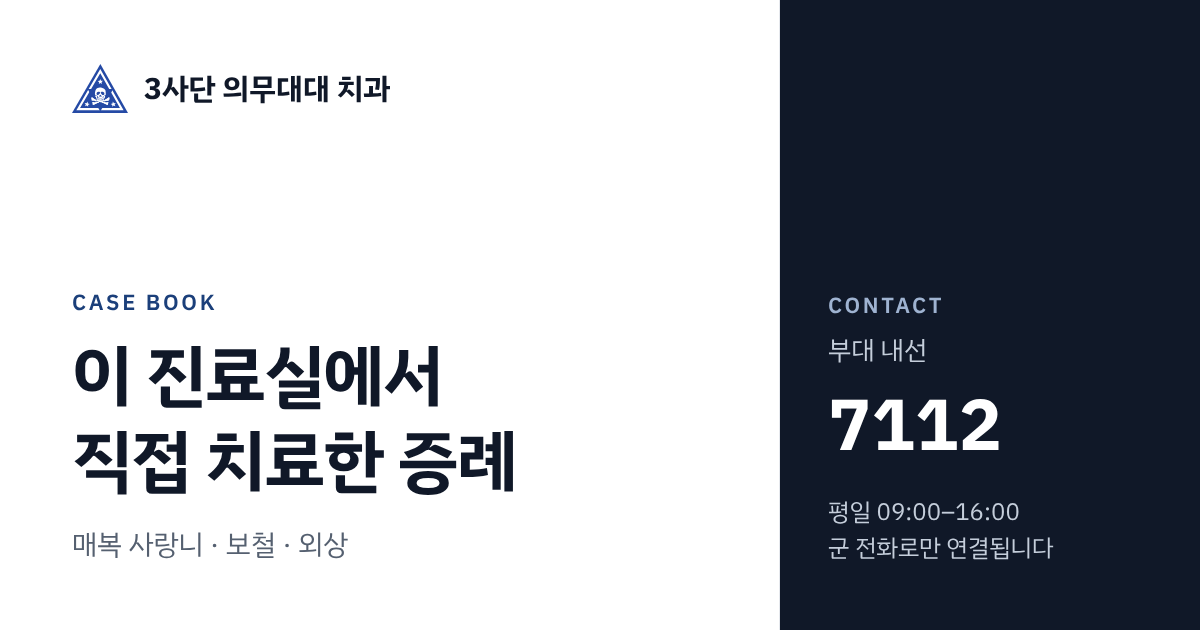
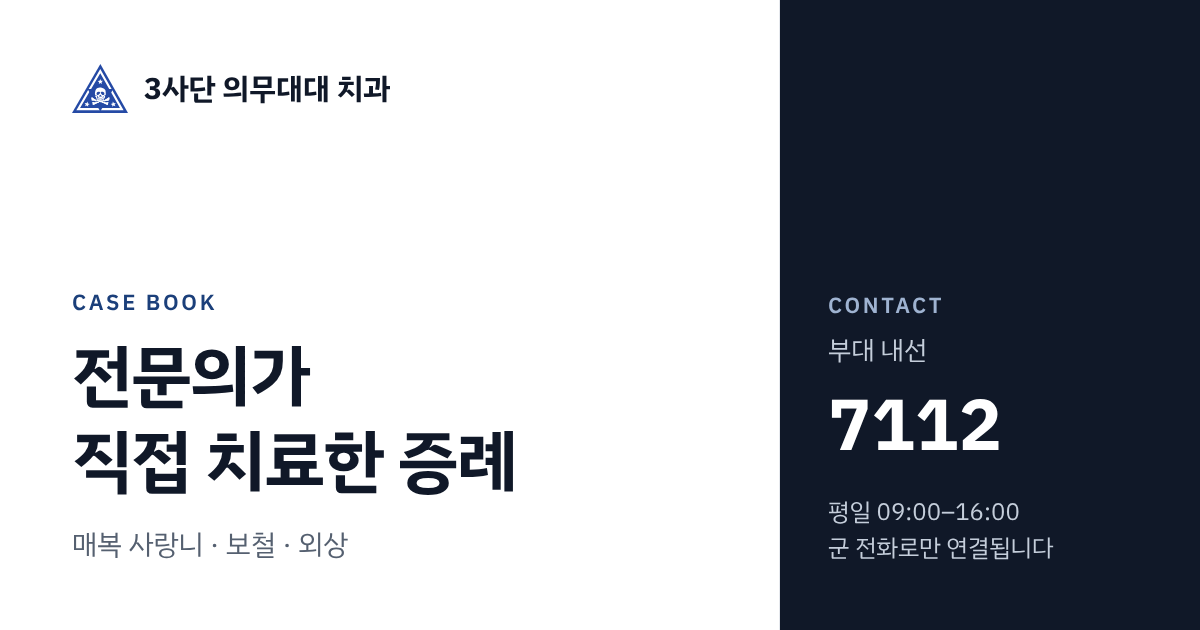
케이스북: 수련 기간에 치료한 증례임을 정확히 표기
- 제목 '전문의가 직접 치료한 증례', 소개·하단 고지·미리보기 정보와 그림 수정
- '이 진료실에서', '본원에서 근무한' 등 이곳에서 치료한 것처럼 읽히는 표현 삭제

Claude-Session: https://claude.ai/code/session_01R7kTzuw7UYxby8XWCzNtGf

Changed region(s): [[0.0617, 0.5429, 0.37, 0.6635]]

diff --git a/cases.html b/cases.html
@@ -11,13 +11,13 @@
 <link rel="icon" href="mark.svg" type="image/svg+xml">
 <link rel="stylesheet" href="style.css">
 
-<title>직접 치료한 증례 · 3사단 의무대대 치과</title>
-<meta name="description" content="3사단 의무대대 치과 전문의가 직접 치료한 매복 사랑니, 보철, 외상 증례. 인턴 1년·레지던트 3년 수련을 마친 구강악안면외과·치과보철과 전문의가 진료합니다.">
+<title>전문의가 직접 치료한 증례 · 3사단 의무대대 치과</title>
+<meta name="description" content="3사단 의무대대 치과에서 진료하는 구강악안면외과·치과보철과 전문의가 전문의 수련 기간에 직접 치료한 매복 사랑니, 보철, 외상 증례입니다.">
 <meta property="og:type" content="website">
 <meta property="og:site_name" content="3사단 의무대대 치과">
 <meta property="og:locale" content="ko_KR">
-<meta property="og:title" content="직접 치료한 증례 · 3사단 의무대대 치과">
-<meta property="og:description" content="부대 안 치과에서 전문의가 직접 치료한 매복 사랑니, 보철, 외상 증례입니다.">
+<meta property="og:title" content="전문의가 직접 치료한 증례 · 3사단 의무대대 치과">
+<meta property="og:description" content="지금 3사단 의무대대 치과에서 진료하는 전문의가 수련 기간에 직접 치료한 매복 사랑니, 보철, 외상 증례입니다.">
 <meta property="og:url" content="https://wonwoo-dent.github.io/dental_clinic/cases.html">
 <meta property="og:image" content="https://wonwoo-dent.github.io/dental_clinic/og-cases.png">
 <meta property="og:image:width" content="1200">
@@ -59,8 +59,8 @@
 <main class="page" id="main">
   <section class="intro" aria-labelledby="page-title">
     <p class="eb eb--accent">Case book</p>
-    <h1 id="page-title">이 진료실에서<br>직접 치료한 증례</h1>
-    <p class="lead">인턴 1년, 레지던트 3년의 수련을 마친 전문의가 진료합니다. 아래 사진은 본원에서 근무한 전문의가 직접 진료한 사진입니다.</p>
+    <h1 id="page-title">전문의가<br>직접 치료한 증례</h1>
+    <p class="lead">아래 사진은 지금 이곳에서 진료하는 전문의가 <b>전문의 수련 기간에 수련병원에서 직접 치료한</b> 증례입니다. 그때와 같은 의사가, 같은 기준으로 이 진료실에서 진료합니다.</p>
   </section>
 
   <section class="specialist" aria-labelledby="sp-title">
@@ -235,7 +235,7 @@
     <p>평일 09:00–16:00 · 행정반이나 사무실의 군 전화로만 연결됩니다. <a href="hours.html#call">전화할 때 말할 것</a></p>
   </section>
 
-  <p class="notice">증례 사진은 본원에서 근무한 전문의가 직접 진료한 사진이며, 환자 동의를 받아 게재합니다. 치료 결과는 개인마다 다를 수 있습니다.</p>
+  <p class="notice">증례 사진은 현재 본원에서 진료하는 전문의가 전문의 수련 기간에 수련병원에서 직접 치료한 사진이며, 환자 동의를 받아 게재합니다. 치료 결과는 개인마다 다를 수 있습니다.</p>
 </main>
 <footer class="site-footer">
   <div class="site-footer__in">

diff --git a/index.html b/index.html
@@ -73,7 +73,7 @@
     <span class="today__badge" id="now-badge">HOURS</span>
   </section>
 
-  <a class="banner" href="cases.html"><span><b>직접 치료한 증례 보기</b><span>매복 사랑니 · 보철 · 외상</span></span><svg viewBox="0 0 24 24" fill="none" stroke="currentColor" stroke-width="2" stroke-linecap="round" stroke-linejoin="round" aria-hidden="true"><path d="M9 6l6 6-6 6"/></svg></a>
+  <a class="banner" href="cases.html"><span><b>전문의가 직접 치료한 증례 보기</b><span>매복 사랑니 · 보철 · 외상</span></span><svg viewBox="0 0 24 24" fill="none" stroke="currentColor" stroke-width="2" stroke-linecap="round" stroke-linejoin="round" aria-hidden="true"><path d="M9 6l6 6-6 6"/></svg></a>
 
   <a class="promo" href="clinic.html#prevent"><span class="promo__eb">예방치료</span><span><b>스케일링 + 불소도포, 한 번에</b><span>올해 9월까지 스케일링 154건 · 불소도포 54건</span></span></a>
 

diff --git a/README.md b/README.md
@@ -6,7 +6,7 @@
 | --- | --- |
 | `index.html` | 홈: 소개, 오늘 진료 상태, 바로가기, 의료진, 예약 세 단계, 연락처, 의견함 |
 | `clinic.html` | 진료 안내 |
-| `cases.html` | 케이스북: 직접 치료한 증례, 치과 전문의 설명, 여기서 받으면 좋은 점 |
+| `cases.html` | 케이스북: 전문의가 수련 기간에 직접 치료한 증례, 치과 전문의 설명, 여기서 받으면 좋은 점 |
 | `hours.html` | 진료 시간, 예약 방법, 전화할 때 말할 것, 캘린더 추가, 응급, 자주 묻는 질문 |
 | `prosthesis.html` | 보철 진행 안내 (도착 문자의 링크가 여기로 옵니다) |
 | `before.html` | 치과 치료 전 주의사항: 질환·약별로 의료진에게 꼭 말할 것 (경기도치과의사회 가이드라인 요약) |
